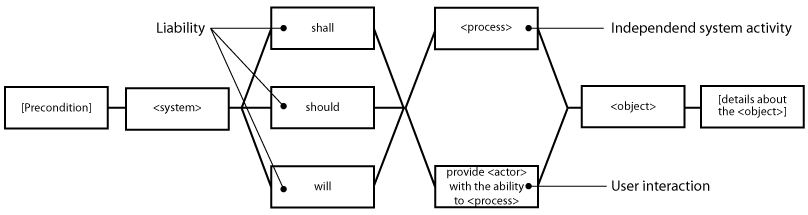
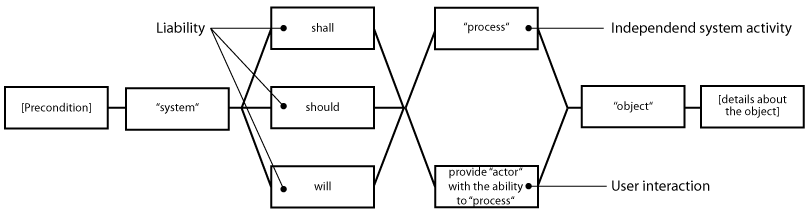
Updated Image. Introduction for Part 2

diff --git a/blog.itemis.com.cnl.boilerplate.parent/README.md b/blog.itemis.com.cnl.boilerplate.parent/README.md
@@ -6,7 +6,7 @@ This series shows how to create a controlled natural language based on sentence 
 
 Part one of this series is about the formalization of informal natural language and the realization of the boilerplates in the Xtext grammar. Besides the grammar we will see how to use strings as cross-references in a convenient and readable way.
 Part two deals with the validation of the natural language requirements using Natural Language Processing (NLP). This part shows how to include external libraries into a Xtext project and how to use the validation API.
-Finally, part three will show how to extract domain specific concepts from the free text parts of the boilerplates using NLP methods. The focus of this part lies on the Quickfix API of Xtext.
+Finally, part three will show how to extract domain specific concepts from the free text parts of the boilerplates using NLP techniques. The focus of this part lies on the Quickfix API of Xtext.
 
 ## Part 1: Requirement boilerplates  
 Requirement boilerplates aim to increase the quality of textual requirements by defining a sentence template with placeholders for specific words or phrases that define the particular requirement. There is a wide range of boilerplates used for requirements documentation. For example user stories in agile software development.
@@ -47,7 +47,7 @@ The user can use the type `Text` for the name of an entity which can consist of 
 
 	Text: ( 'To' |  'to' | 'A' | 'a' | 'the' | 'The' | WORD | ANY_OTHER)+;
 
-Here we have to be careful. Since the rule text has no distinct terminator, only keywords which are not used as terminators for `Text` types in boilerplates can be added. 
+Here we have to be careful regarding the limitations of the parser. Since the rule text has no distinct terminator, only keywords which are not used as terminators for `Text` types can be added. 
 
 To add further informations for an entity the user can create a description for each entity using the type `SentenceWithReferences`. Such a sentence consists of `textWithReferences` and a `punctuation`. 
 		
@@ -66,7 +66,7 @@ To add further informations for an entity the user can create a description for 
 
 References to entities have the type `STRING`. This allows the referencing of entities with a name consisting of multiple words. For example the System `"printing module"`.
 
-The core syntax elements of the language are the `Requirement` rules. The following rules are the realization of the boilerplate shown in Figure 1.   
+The core syntax elements of the language are the `Requirement` rules. The following rules are the realization of the boilerplate shown in figure 1.   
 
 	Requirement:
 		ConditionalRequirement | UnconditionalRequirement;
@@ -91,7 +91,7 @@ Since an Independent System Activity only consists of a process phrase we don't 
 	RequirementEnd:
 		ai=ActorInteraction? objectWithDetails=TextWithGlossaryEntriesOrSynonyms '.';
 
-Such `TextWithGlossaryEntriesOrSynonyms` has the same structure than `TextWithReferences` but only `GlossaryEntries` and their synonyms can be referenced. Such a glossary entry can be a `Function` describing a process or a `DomainObject`. 
+Such `TextWithGlossaryEntriesOrSynonyms` has the same structure than `TextWithReferences` but only `GlossaryEntries` and their synonyms can be referenced. Such a glossary entry can be a `Function` representing a `"process"` or a `DomainObject` representing an `"object"` in figure 1. 
 
 	Glossary:
 		{Glossary} 'Glossary' elements+=(GlossaryEntry)*;
@@ -151,7 +151,7 @@ Besides the cross-referencing we should change the editor behavior. By default, 
 		}
 	}
 
-Finally we register our newly introduced class:
+Finally we register our newly introduced class.
 
 	class BoilerplateUiModule extends AbstractBoilerplateUiModule {
 	
@@ -161,13 +161,31 @@ Finally we register our newly introduced class:
 	}
 
 ### Summary and outlook  
-In this post we saw how to realize boilerplates in the Xtext grammar and allow the usage of free text combined with references to entities in these boilerplates. The resulting language controls the use of natural language by defining a grammatical sentence structure and allows the user a convenient use of strings as references.
+In this post we saw how to realize boilerplates in the Xtext grammar and allow the usage of free text combined with references to entities in these boilerplates. The resulting language controls the use of natural language by defining a grammatical sentence structure and allows the user to document requirements in a standardized, convenient and readable way.  
 
-In the next post we will see how to validate the free text parts of the boilerplates using NLP methods and how to integrate the related libraries in Xtext.
+In the next post we will see how to further control the usage of natural language specially in the free text parts of the boilerplates. According to figure 1, we will make sure that each requirement contains a free text phrase which describes a process or `Function` of the system and at least one involved `DomainObject`. Since functions can be described by verbs and domain objects by nouns, we gone use NLP techniques to ensure that each boilerplate contains exactly one `Function` and at least one `DomainObject`. Therefore, we will integrate a external library and define validation rules based on the Xtext validation API.  
 
-##Part 2: Natural language validation  
+## Part 2: Controlled use of natural language
+In the first part of this series we defined a Xtext grammar based on boilerplates in order to control the use of natural language and in order to  create acceptable requirements as they are written. 
 
-##Part 3: Extracting and creating glossary entries   
+Another approach to improve the quality of textual requirements
+is the use of Natural Language Processing (NLP) techniques to check their quality in terms of grammar and vocabulary after they have been written. NLP
+techniques related to this work are Part-Of-Speech (POS)
+tagging which categorizes the tokens of a sentence into different
+types like verbs or nouns and stemming which finds the root (stem) of a word for inflected forms, for example the singular for a plural word.
+
+According to our grammar, we will use these techniques to ensure that each `RequirementEnd` contains exactly one verb representing a `Function` and at least one object which represents an `DomianObject` in our `Glossary`. 
+
+### POS-Tagging 
+
+### Model transformation 
+
+### Integrate external libraries 
+
+### Defining validation rules 
+
+
+## Part 3: Extracting and creating glossary entries   
 
 
 <!--	
